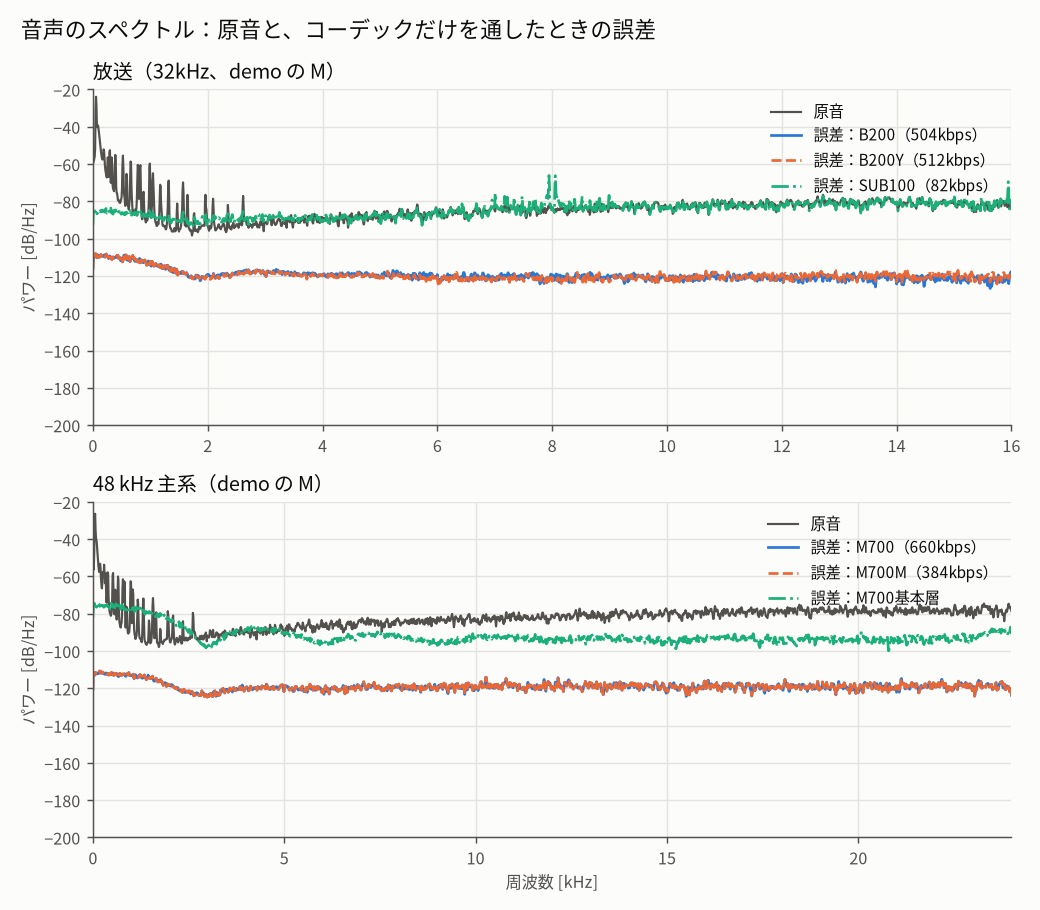
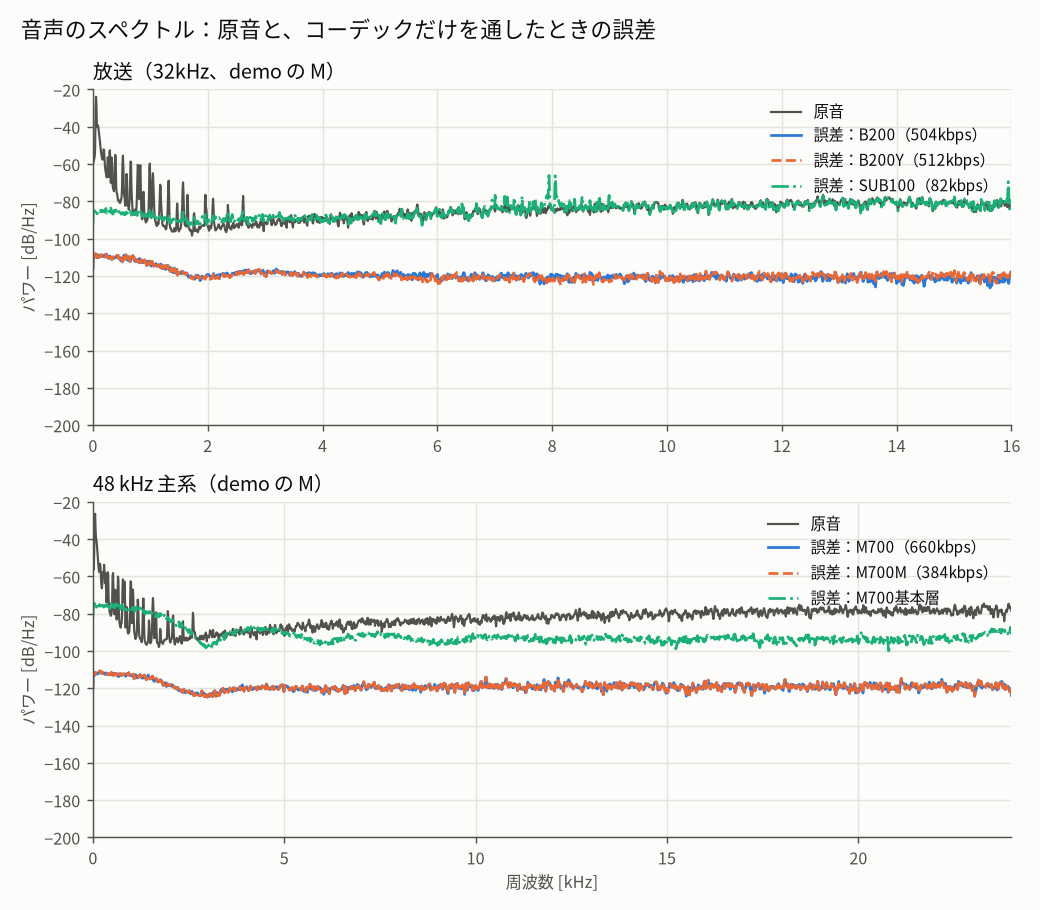
Derive the equalizer correlation shift from SYM_FRAC and fix the fixed-point width wording.
CORR_SHIFT was still 11 after the symbols moved to 22 fractional bits, so
the correlations were Q11 instead of Q10. Refresh the spectrum results.

diff --git a/gracefm/channel.py b/gracefm/channel.py
@@ -1,6 +1,6 @@
 """
 評価用の通信路モデル (アナログの通信路を模擬するので、浮動小数点を使う。ハードウェアではない)。
-link は同期済みシンボルに直接雑音を加え、12 bit の ADC で量子化して、受信側が受け取る小数 22 bit (24 bit) の固定小数点の整数に直す。
+link は同期済みシンボルに直接雑音を加え、12 bit の ADC で量子化して、受信側が受け取る小数 22 bit の固定小数点の整数に直す。
 link_static_multipath は RRC 送受信フィルタと静的マルチパスの等価応答を使い、
 等化器も選択できる。どちらもシンボル時刻・搬送波位相の同期は理想とする。
 
@@ -61,7 +61,7 @@ def awgn(sym, snr_db, rng):
 
 
 def adc(sym):
-    """実数のシンボル (n, 2) を ADC の符号 (12 bit) にして、受信側の 24 bit 固定小数点 (±1 = 2^SYM_FRAC) の整数に直す"""
+    """実数のシンボル (n, 2) を ADC の符号 (12 bit) にして、受信側の小数 22 bit 固定小数点 (±1 = 2^SYM_FRAC) の整数に直す"""
     code = np.clip(np.rint(sym * ADC_ONE), -(1 << (ADC_BITS - 1)), (1 << (ADC_BITS - 1)) - 1).astype(np.int64)
     return code << (modem.SYM_FRAC - ADC_BITS + 2)
 

diff --git a/gracefm/equalizer.py b/gracefm/equalizer.py
@@ -15,7 +15,7 @@ from .layout import Layout, int_bits
 from .linalg import FRAC as W_FRAC, hermitian_solve
 from .profiles import Profile
 
-CORR_SHIFT = 11                     # 相関を取る前にシンボルを Q10 に縮める
+CORR_SHIFT = modem.SYM_FRAC - 10     # 相関を取る前にシンボルを Q10 に縮める
 FIR_FRAC = 14                       # FIR の重みの小数bit数 (18 bit符号つきに収まる)
 
 

diff --git a/docs/SPEC.md b/docs/SPEC.md
@@ -75,7 +75,7 @@ B200YはステレオY主系で、Mの全幅は `(11,11,7,7,7)`（$`k=2,3,4`$ が
 
 ## 5. 受信、欠損データ、出力段
 
-受信機は、シンボルを小数22 bit（24 bit）の固定小数点に変換し（IQは受け取った段階の12 bit ADC出力から変換）、受信点と最寄りの信号点との差から軸あたりの雑音分散をフレームごとに推定して、軸ごとに独立なmax-logのLLR（符号つき8 bitの整数）を得る。PRBSを戻し、ヘッダと係数のパリティを、データの軟値と合わせて復号し、CRCを検査する。基本CRCが不一致ならそのフレームを欠落とする。CRCは、ヘッダを復号し、パリティとHaar係数部の上位 $`K`$ bit の軟値から上位bitを訂正した後に確認する。高域CRCだけが不一致ならH2/H1のM/S係数を0にし、低中域は使う。Y帯域の最上位bitのうち $`k=2`$ の分は基本CRCの範囲なので、その不一致はフレーム欠落になる。高域の融合用誤差分散は無限大とし、もう一方の系統に正常な高域があればそちらを選ぶ。上位 $`K`$ bit を除くHaar係数部のbitは、LLRからテーブルで引いた事後確率 $`p_1`$（Q15の整数）を使い、仮数の期待値を $`E[u]=u_{\rm hard}+\sum(p_1-b_{\rm hard})2^{\rm pos}`$、事後分散を $`\sum p_1(1-p_1)4^{\rm pos}`$ として復元する。CRCで非保護bitの誤りまで検出したと解釈してはならない。
+受信機は、シンボルを小数22 bitの固定小数点に変換し（IQは受け取った段階の12 bit ADC出力から変換）、受信点と最寄りの信号点との差から軸あたりの雑音分散をフレームごとに推定して、軸ごとに独立なmax-logのLLR（符号つき8 bitの整数）を得る。PRBSを戻し、ヘッダと係数のパリティを、データの軟値と合わせて復号し、CRCを検査する。基本CRCが不一致ならそのフレームを欠落とする。CRCは、ヘッダを復号し、パリティとHaar係数部の上位 $`K`$ bit の軟値から上位bitを訂正した後に確認する。高域CRCだけが不一致ならH2/H1のM/S係数を0にし、低中域は使う。Y帯域の最上位bitのうち $`k=2`$ の分は基本CRCの範囲なので、その不一致はフレーム欠落になる。高域の融合用誤差分散は無限大とし、もう一方の系統に正常な高域があればそちらを選ぶ。上位 $`K`$ bit を除くHaar係数部のbitは、LLRからテーブルで引いた事後確率 $`p_1`$（Q15の整数）を使い、仮数の期待値を $`E[u]=u_{\rm hard}+\sum(p_1-b_{\rm hard})2^{\rm pos}`$、事後分散を $`\sum p_1(1-p_1)4^{\rm pos}`$ として復元する。CRCで非保護bitの誤りまで検出したと解釈してはならない。
 
 ### 5.1 出力段のポストフィルタ
 

diff --git a/docs/FIXED.md b/docs/FIXED.md
@@ -18,7 +18,7 @@
 
 ## 2. 数値形式
 
-**方針。** 値は 0〜1 の範囲で、固定小数点のフルレンジは 20 bit 強（[SPEC](SPEC.md) 6.1）なので、PCM と IQ は **24 bit**、Haar の係数は小数 22 bit の固定小数点で扱う。Haar 4 段の利得で最低域は ±2^24 になるが、これは乗算器の入力（25 bit）に余裕を持たせて載せているだけで、精度が 25 bit あるわけではない。IQ は受け取った段階（12 bit の ADC 出力）で小数 22 bit の 24 bit 整数に変換する。**DSP の都合で精度が下がることは容認する**。64 bit 整数が出るのは、乗算とアキュムレータ（`gracefm/dsp.py`）だけを想定する。
+**方針。** 値は 0〜1 の範囲で、固定小数点のフルレンジは 20 bit 強（[SPEC](SPEC.md) 6.1）なので、PCM は符号つき 24 bit（±1 = 2^23）、IQ と Haar の係数は **小数 22 bit**（±1 = 2^22）の固定小数点で扱う。Haar 4 段の利得で最低域は ±2^24 になるが、これは乗算器の入力（25 bit）に余裕を持たせて載せているだけで、精度が 25 bit あるわけではない。IQ は受け取った段階（12 bit の ADC 出力）で小数 22 bit に変換する。**DSP の都合で精度が下がることは容認する**。64 bit 整数が出るのは、乗算とアキュムレータ（`gracefm/dsp.py`）だけを想定する。
 
 | 量 | 形式 |
 |---|---|
